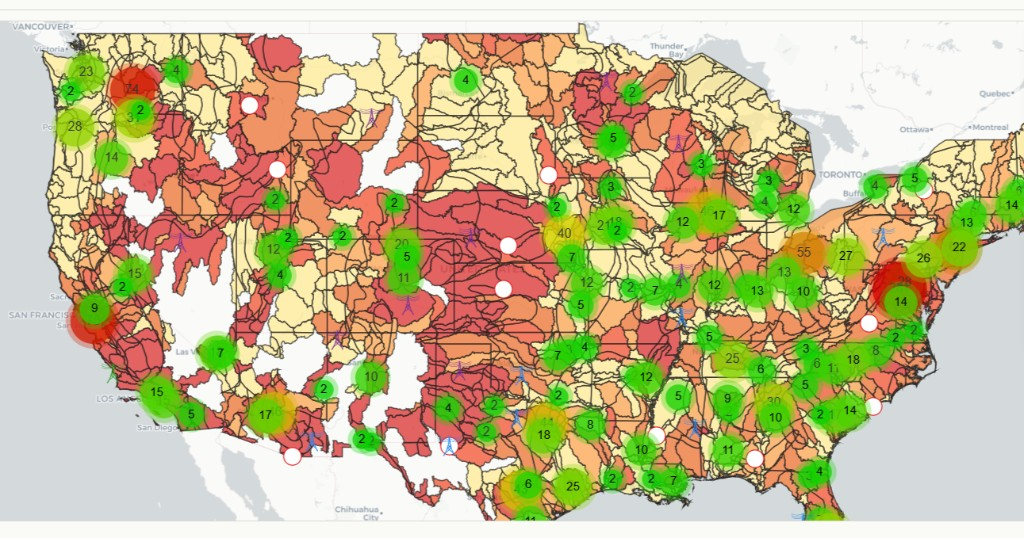
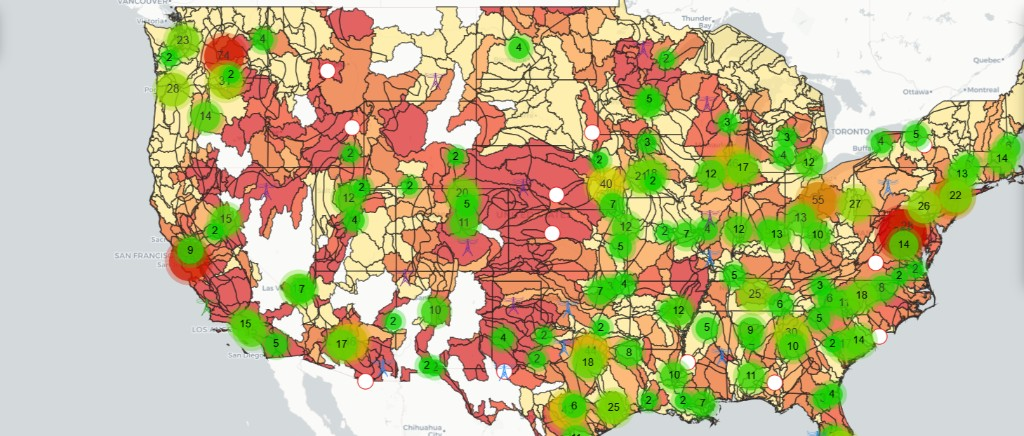
resolution fix

diff --git a/index.html b/index.html
@@ -9,7 +9,7 @@
     <link rel="icon" href="assets/images/favicon.svg" type="image/svg+xml">
     <meta property="og:title" content="The Server Basin">
     <meta property="og:description" content="A spatial analysis of where data center facilities are sited in relation to water stress and thermoelectric power infrastructure in the United States.">
-    <meta property="og:image" content="https://nourmuheisen.github.io/ai-water-map/assets/images/social-preview.png?v=4">
+    <meta property="og:image" content="https://nourmuheisen.github.io/ai-water-map/assets/images/social-preview.png?v=5">
     <meta property="og:image:width" content="1200">
     <meta property="og:image:height" content="627">
     <meta property="og:image:type" content="image/png">
@@ -18,7 +18,7 @@
     <meta name="twitter:card" content="summary_large_image">
     <meta name="twitter:title" content="The Server Basin">
     <meta name="twitter:description" content="A spatial analysis of where data center facilities are sited in relation to water stress and thermoelectric power infrastructure in the United States.">
-    <meta name="twitter:image" content="https://nourmuheisen.github.io/ai-water-map/assets/images/social-preview.png?v=4">
+    <meta name="twitter:image" content="https://nourmuheisen.github.io/ai-water-map/assets/images/social-preview.png?v=5">
 
     <link rel="preconnect" href="https://fonts.googleapis.com">
     <link rel="preconnect" href="https://fonts.gstatic.com" crossorigin>
